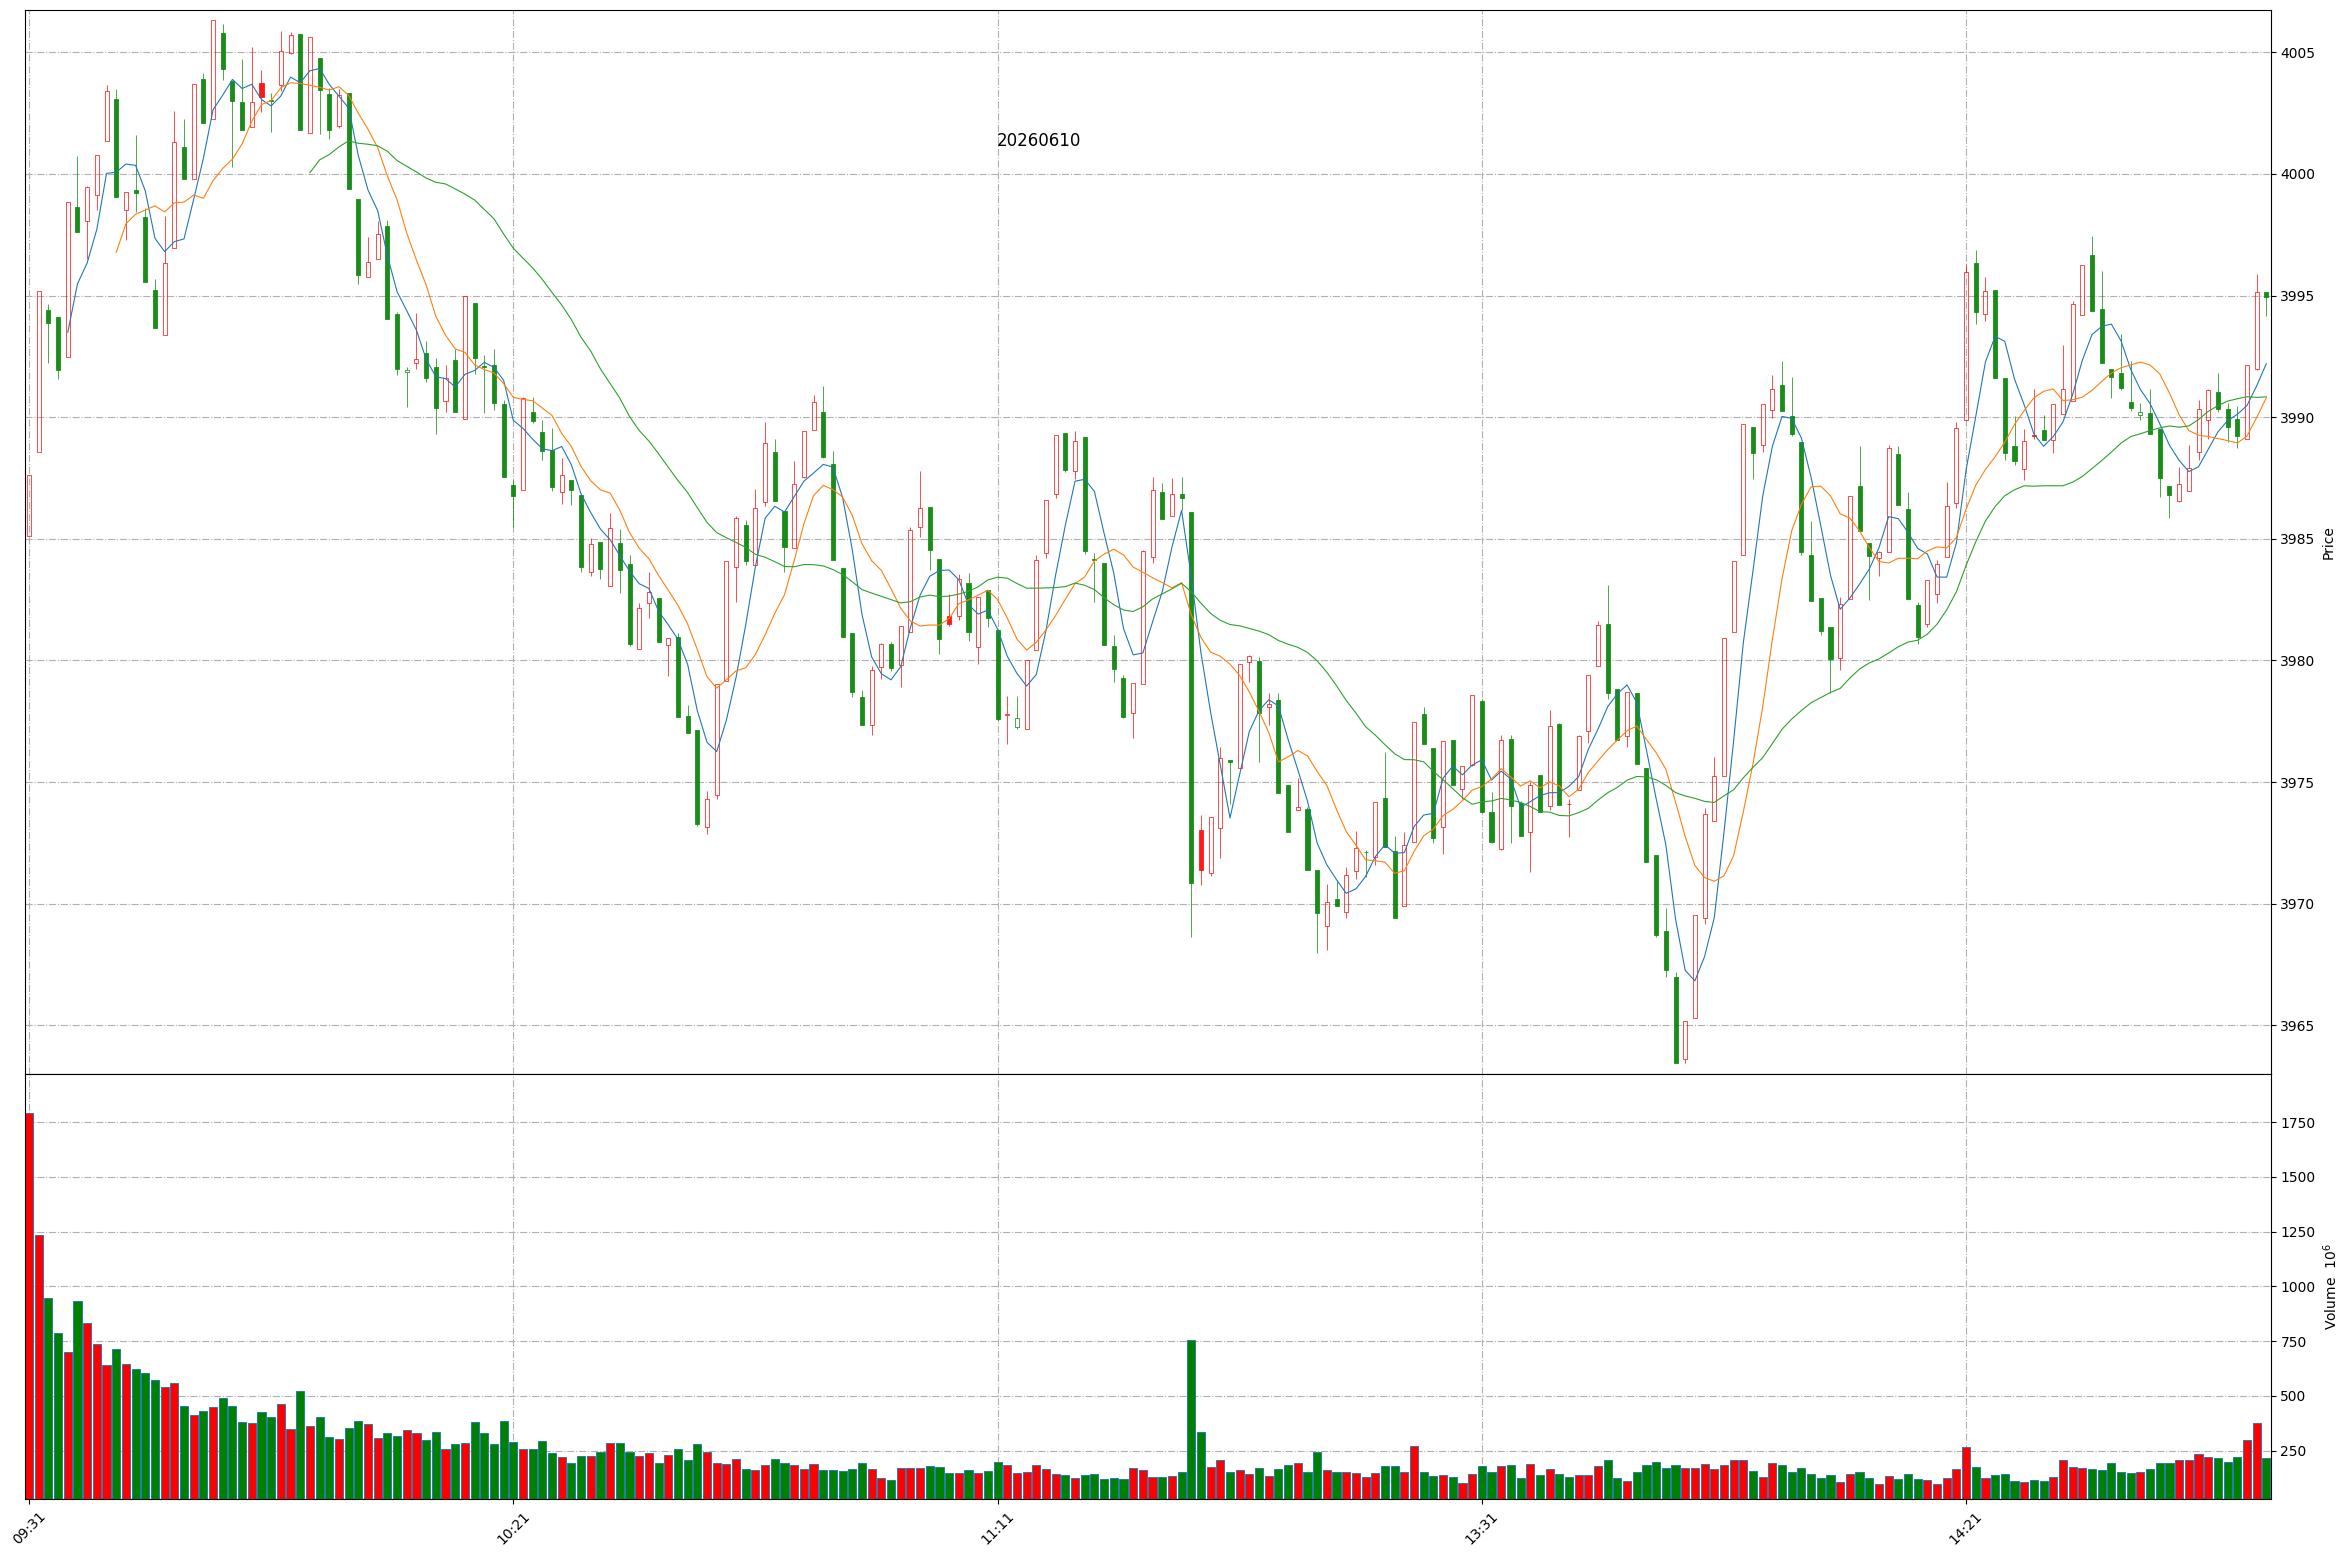
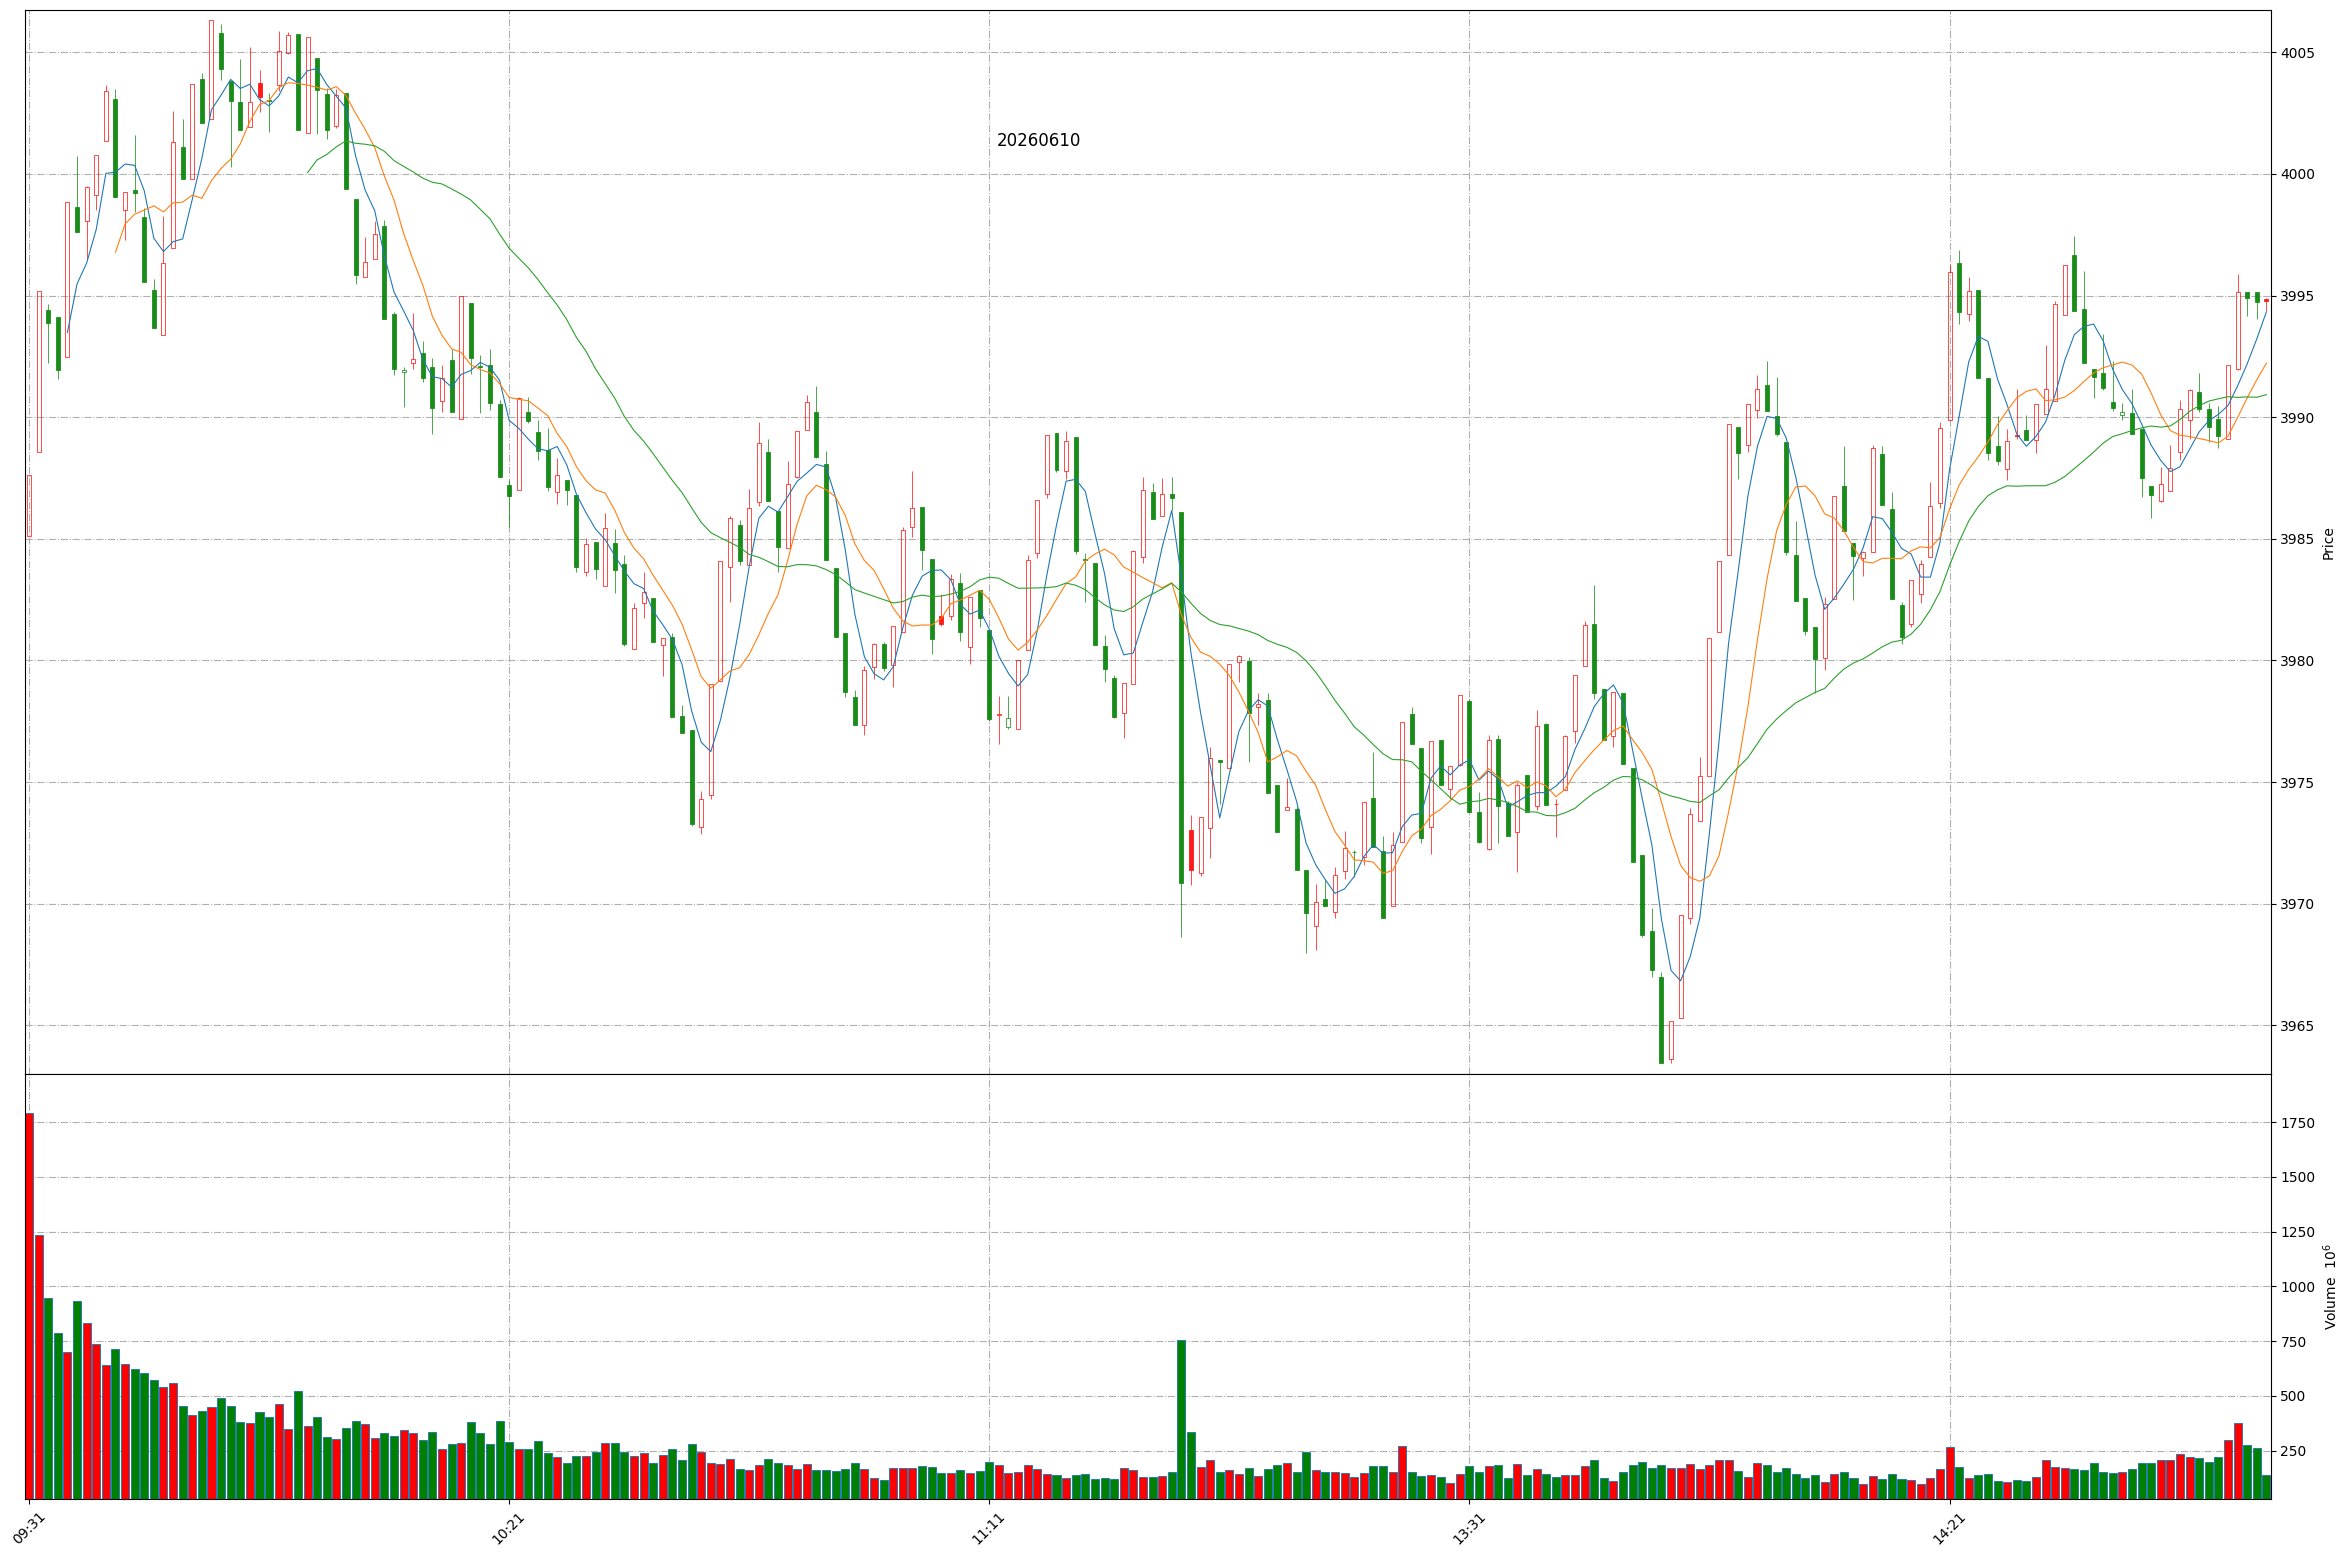
Github action update at 2026-06-10 14:53:48.

Changed region(s): [[0.0311, 0.0308, 0.7458, 0.6782], [0.0311, 0.8632, 0.9634, 0.9865], [0.7148, 0.1541, 0.9634, 0.4316]]

diff --git a/README.md b/README.md
@@ -1,11 +1,11 @@
 
 # Daily-A-share-market-quotes 每日 A 股指数（5min 更新）- 20260610
 
-### 上证指数 20260610 14:52
+### 上证指数 20260610 14:53
 ![](./fig/2026/6/20260610-sh000001.png)
 
-### 深证成指 20260610 14:52
+### 深证成指 20260610 14:53
 ![](./fig/2026/6/20260610-sz399001.png)
 
-### 北证50 20260610 14:52
+### 北证50 20260610 14:53
 ![](./fig/2026/6/20260610-bj899050.png)
